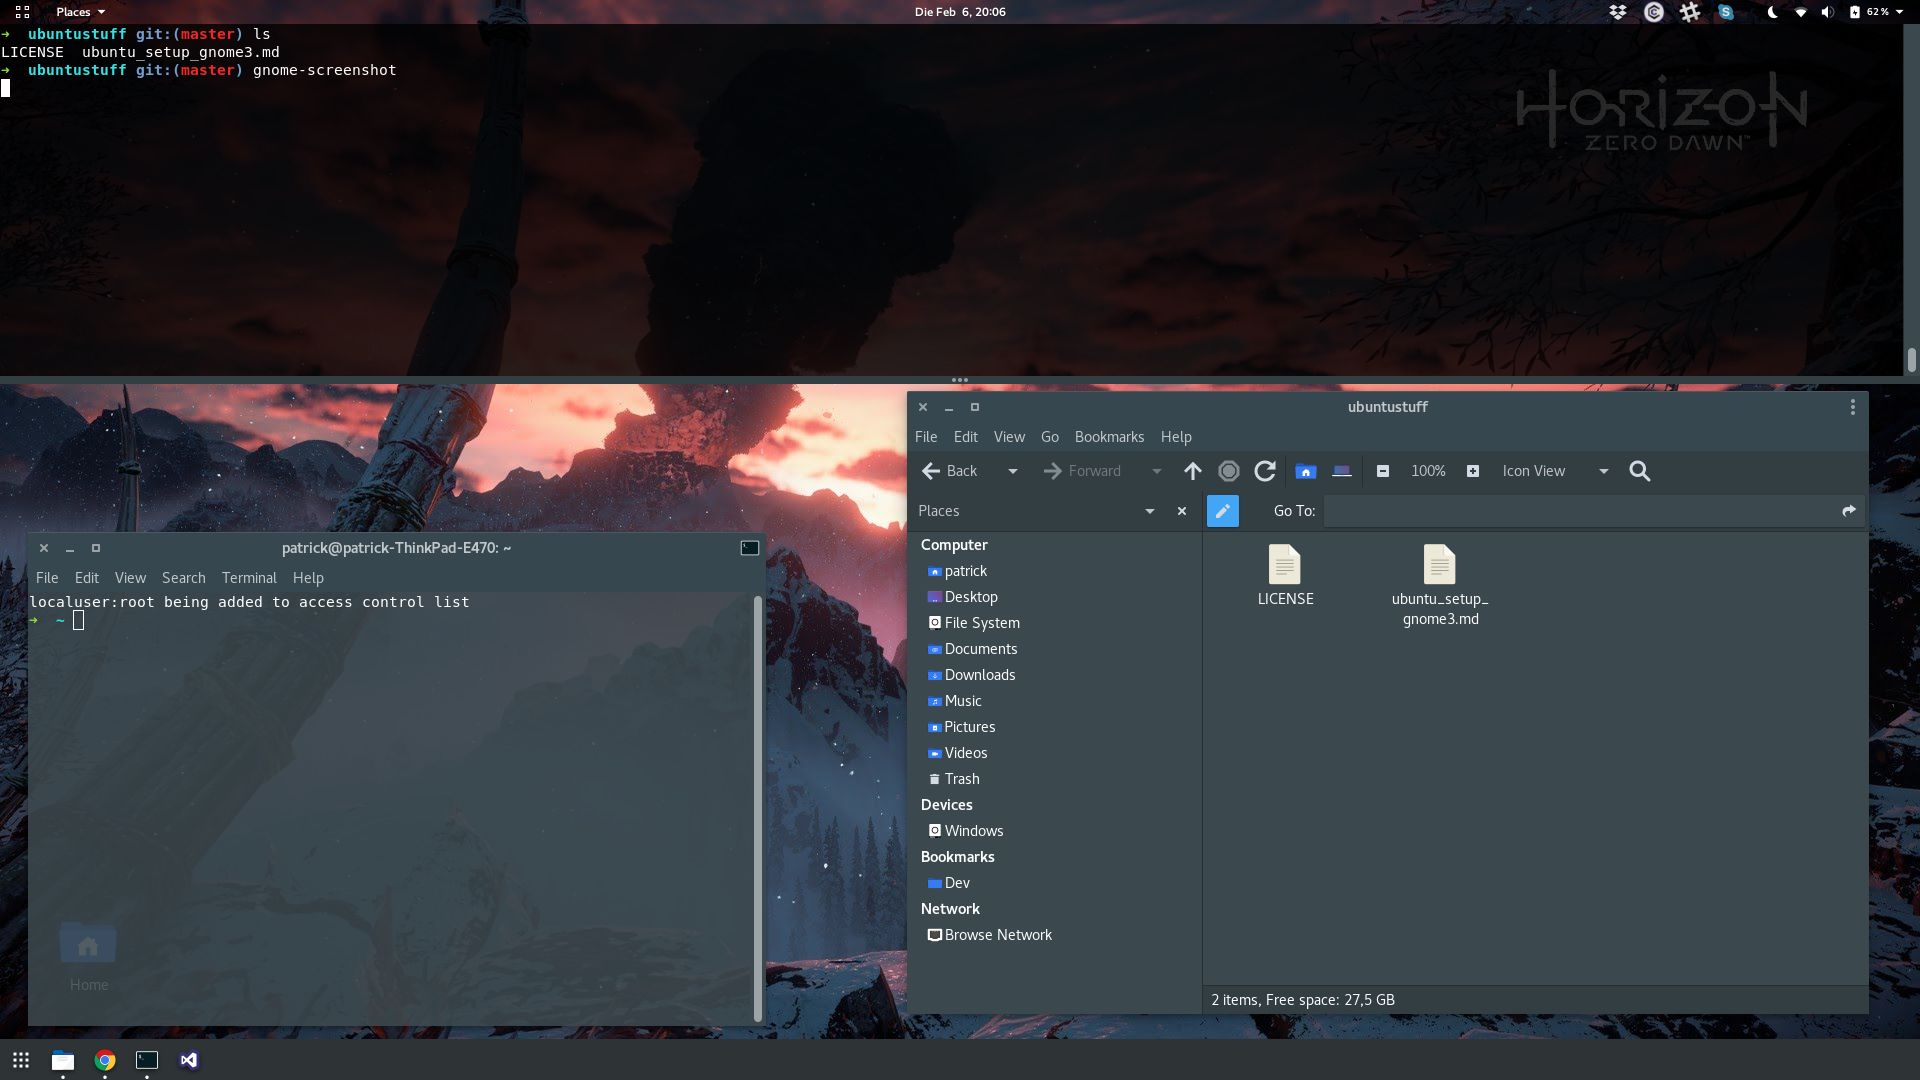
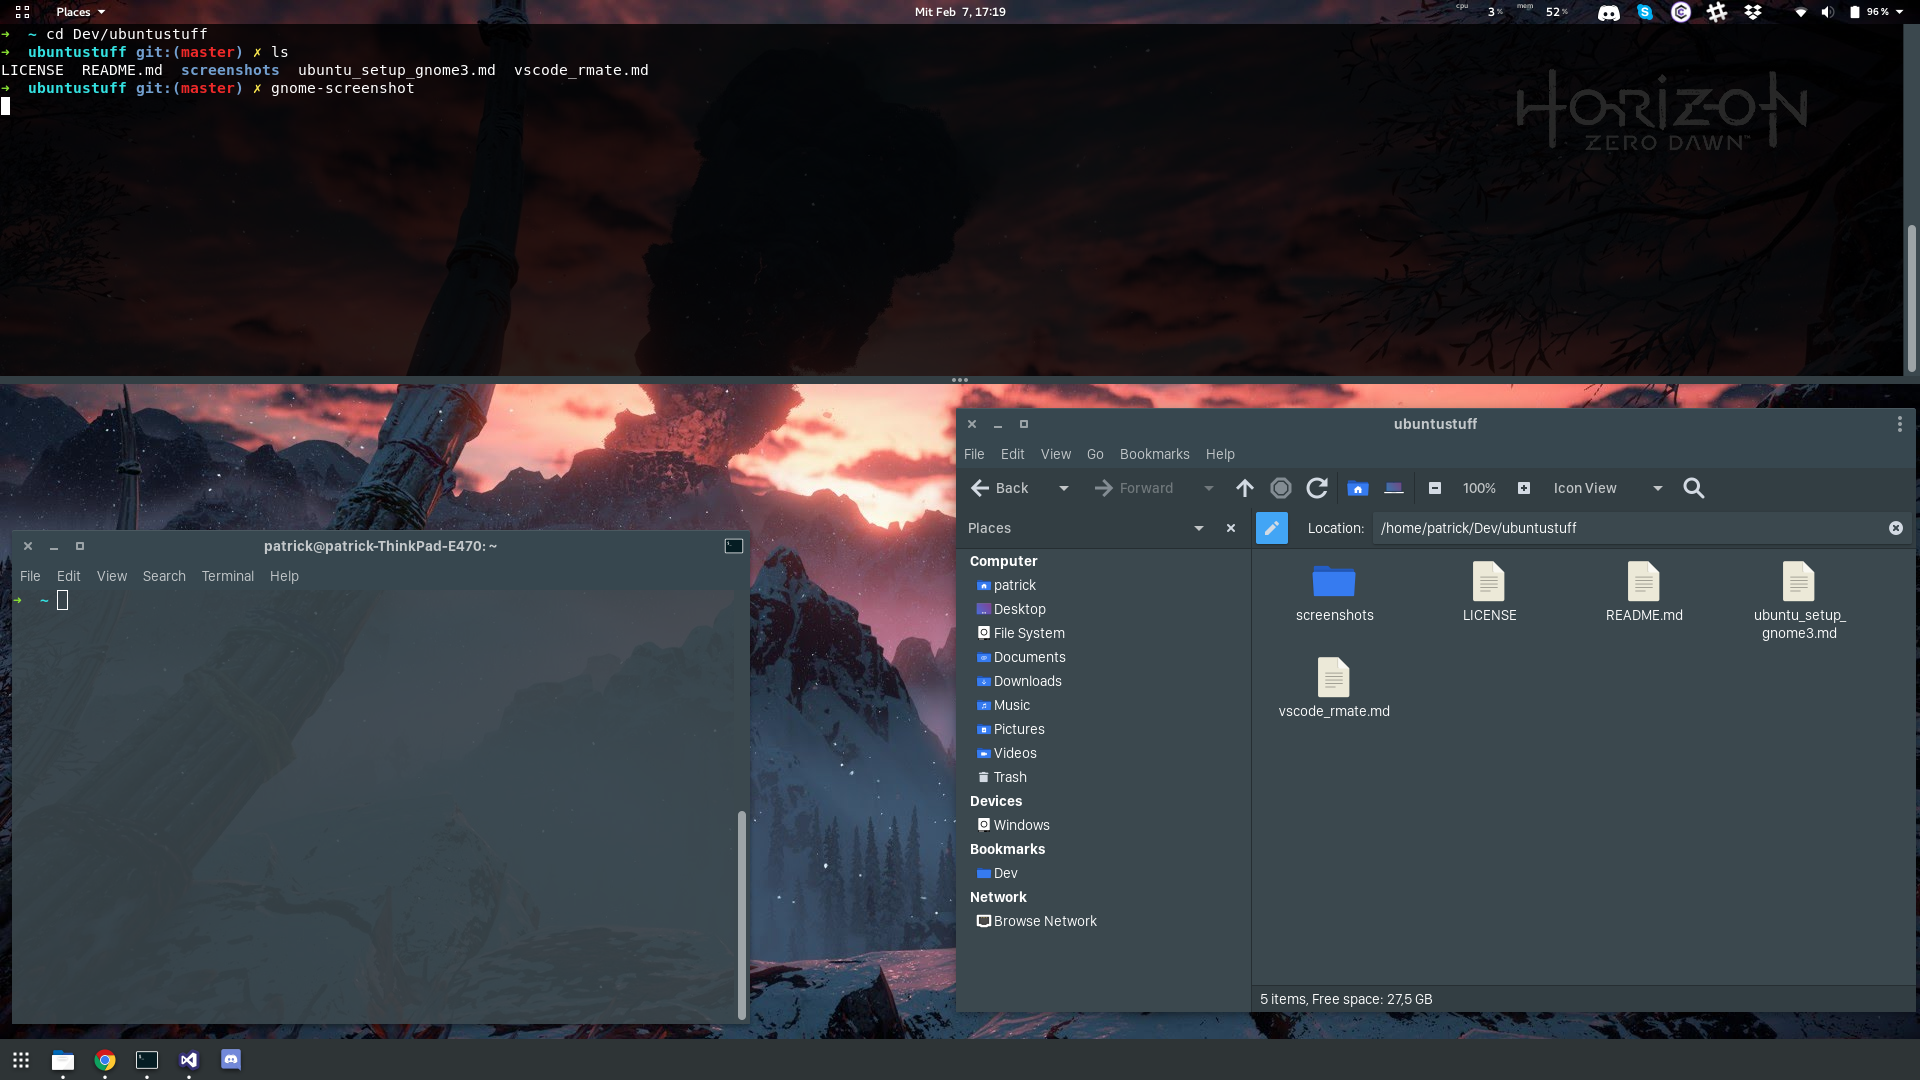
update screenshot and gnome3 desktop setup guide

diff --git a/ubuntu_setup_gnome3.md b/ubuntu_setup_gnome3.md
@@ -3,6 +3,33 @@
 This is how it looks like:  
 ![desktop-preview](screenshots/desktop.png)
 
+## Gnome3 
+
+Install Gnome3 if you don't have already and get gnome tweak tool:
+```
+sudo apt install gnome-shell gnome-tweak-tool
+```  
+
+### Themes
+[Flat-Remix](https://github.com/daniruiz/Flat-Remix-GNOME-theme) is used as base theme with the Flat-Remix icon theme. As GTK3 theme [Materia](https://github.com/nana-4/materia-theme) fits well to Flat-Remix theme. 
+
+### Fonts
+Im currently using the Fonts from OSX. You can get them [here](https://github.com/AppleDesignResources/SanFranciscoFont) and select them with Gnome-Tweak-Tool:  
+
+> Window Title: "San Francisco Display Medium" Size 11  
+> Interface: "San Francisco Display Regular" Size 11  
+> Document: "San Francisco Text Regular" Size 11  
+> Monospace: "Monospace Regular" Size 11  
+
+### Extensions
+
+Im using following extensions for gnome3:  
+* [dash-to-dock](https://github.com/micheleg/dash-to-dock)  
+* [system-monitor](https://github.com/paradoxxxzero/gnome-shell-system-monitor-applet)  
+* [TopIcons](https://github.com/phocean/TopIcons-plus)  
+
+Dash to dock is set to the bottom with Icon Size 24 and panel mode with Appearance -> Shrink the dash on.
+
 ## Applications
 Filemanager: Caja, Dropdown Terminal: Guake, Spotlight: Cerebro  
 You can get the first two via apt:  
@@ -43,13 +70,3 @@ open() {
 } 
 ```
 Note: Relace "caja" with your default file manager
-
-## Gnome3 Extensions and Themes
-Get gnome tweak tool if not installed:
-```
-sudo apt install gnome-tweak-tool
-```
-Install "activities-config", "dash-to-dock", "system-monitor" and "TopIcons"  
-
-### Themes
-[Flat-Remix](https://github.com/daniruiz/Flat-Remix-GNOME-theme) is used as base theme with the Flat-Remix icon theme. As GTK3 theme [Materia](https://github.com/nana-4/materia-theme) fits well to Flat-Remix theme. 
